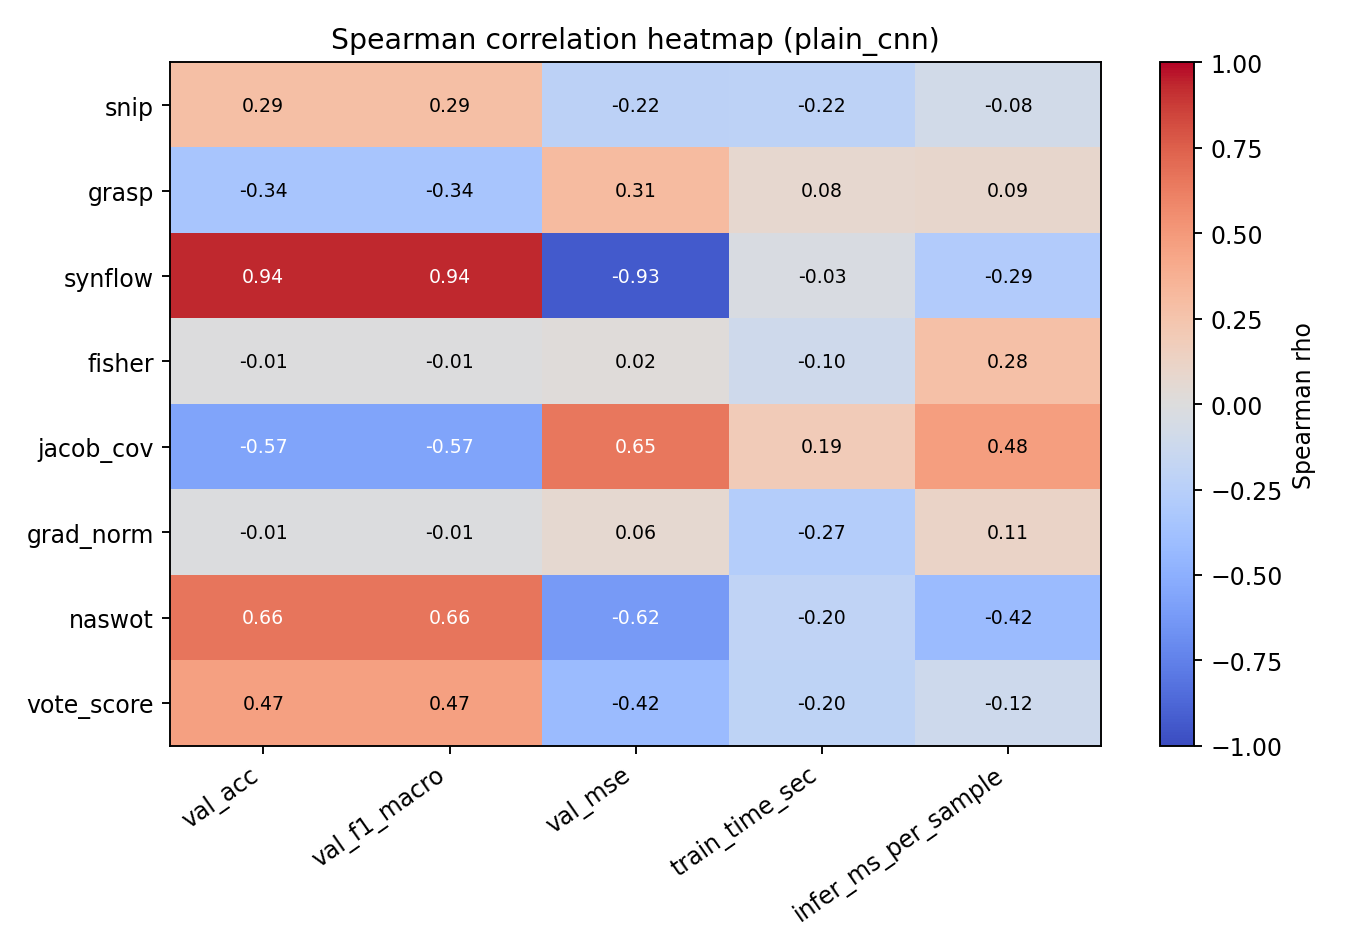
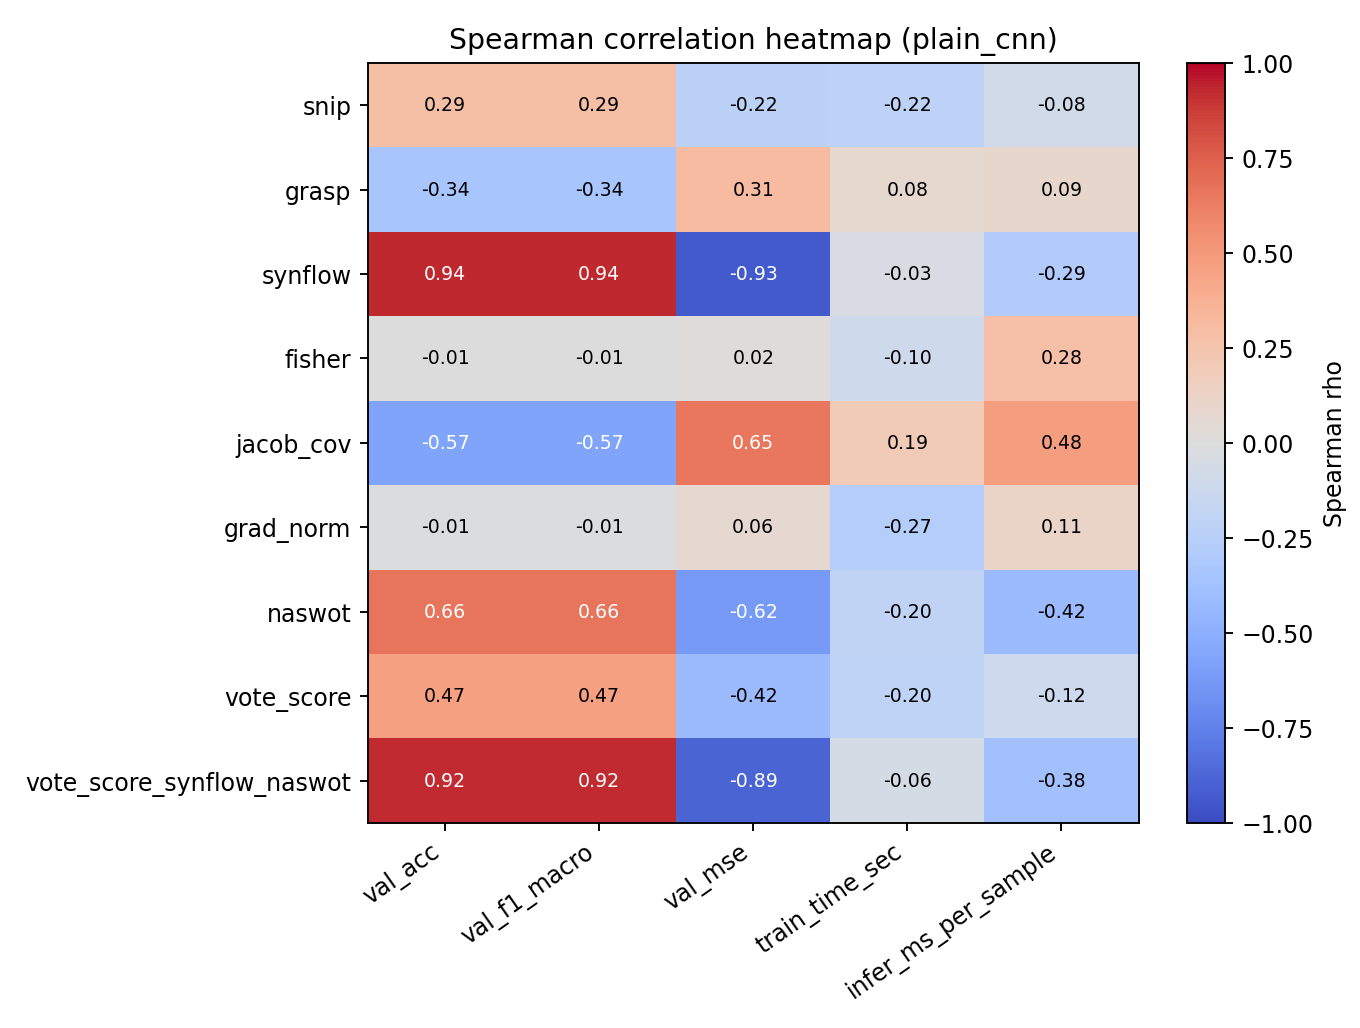
visualisierungen und logik von naswotXsynflow implementiert

diff --git a/main.py b/main.py
@@ -14,6 +14,7 @@ from torch.utils.data import DataLoader
 from src.analysis import (
     add_metric_vote_scores,
     build_metric_mapping_table,
+    plot_metric_pair_correlation,
     plot_metric_correlation_heatmaps,
     plot_metric_correlations,
     plot_rank_agreement_bump_chart,
@@ -24,6 +25,9 @@ from src.train import train_short
 
 
 ZERO_COST_METRICS = ["snip", "grasp", "synflow", "fisher", "jacob_cov", "grad_norm", "naswot"]
+SMALL_VOTE_METRICS = ("synflow", "naswot")
+SMALL_VOTE_SCORE_COL = "vote_score_synflow_naswot"
+SMALL_VOTE_RANK_COL = "vote_rank_synflow_naswot"
 CORR_TARGETS = ["val_acc", "val_f1_macro", "val_mse", "train_time_sec", "infer_ms_per_sample"]
 DEFAULT_LOWER_IS_BETTER = ("jacob_cov", "grasp")
 PROJECT_DIR = Path(__file__).resolve().parent
@@ -260,7 +264,15 @@ def _postprocess_and_plot(
         vote_metrics=ZERO_COST_METRICS,
         lower_is_better=lower_is_better,
     )
-    metrics_for_corr = ZERO_COST_METRICS + ["vote_score"]
+    small_vote_df = add_metric_vote_scores(
+        results_df=results_df,
+        vote_metrics=SMALL_VOTE_METRICS,
+        lower_is_better=lower_is_better,
+    )
+    results_df[SMALL_VOTE_SCORE_COL] = small_vote_df["vote_score"]
+    results_df[SMALL_VOTE_RANK_COL] = small_vote_df["vote_rank"]
+
+    metrics_for_corr = ZERO_COST_METRICS + ["vote_score", SMALL_VOTE_SCORE_COL]
 
     results_path = out_dir / "results_mnist.csv"
     results_df.to_csv(results_path, index=False)
@@ -293,6 +305,13 @@ def _postprocess_and_plot(
             target=target,
             prefix="overall",
         )
+    _ = plot_metric_pair_correlation(
+        results_df=results_df,
+        out_dir=out_dir,
+        x_metric="synflow",
+        y_metric="naswot",
+        prefix="overall",
+    )
     _ = plot_metric_correlation_heatmaps(
         results_df=results_df,
         out_dir=out_dir,
@@ -362,6 +381,7 @@ def main() -> None:
         total_models = len(results_df)
         top_acc = results_df.sort_values("val_acc", ascending=False).iloc[0]
         top_vote = results_df.sort_values("vote_score", ascending=False).iloc[0]
+        top_small_vote = results_df.sort_values(SMALL_VOTE_SCORE_COL, ascending=False).iloc[0]
         print("\n=== Replot finished (no training run) ===", flush=True)
         print(f"Models in CSV: {total_models}", flush=True)
         print(f"Results: {results_path.resolve()}", flush=True)
@@ -370,6 +390,10 @@ def main() -> None:
             print(f"Family mapping: {family_mapping_path.resolve()}", flush=True)
         print(f"Top by val_acc: {top_acc['model']} ({top_acc['val_acc']:.4f})", flush=True)
         print(f"Top by vote_score: {top_vote['model']} ({top_vote['vote_score']:.2f})", flush=True)
+        print(
+            f"Top by {SMALL_VOTE_SCORE_COL}: {top_small_vote['model']} ({top_small_vote[SMALL_VOTE_SCORE_COL]:.2f})",
+            flush=True,
+        )
         print("Plots created: scatter correlations, correlation heatmaps, rank-agreement bump charts", flush=True)
         return
 
@@ -469,6 +493,7 @@ def main() -> None:
 
     top_acc = results_df.sort_values("val_acc", ascending=False).iloc[0]
     top_vote = results_df.sort_values("vote_score", ascending=False).iloc[0]
+    top_small_vote = results_df.sort_values(SMALL_VOTE_SCORE_COL, ascending=False).iloc[0]
 
     print("\n=== Untrained CNN MNIST Artifact finished ===", flush=True)
     print(f"Models: {total_models} (plain_cnn + residual_cnn)", flush=True)
@@ -478,6 +503,10 @@ def main() -> None:
         print(f"Family mapping: {family_mapping_path.resolve()}", flush=True)
     print(f"Top by val_acc: {top_acc['model']} ({top_acc['val_acc']:.4f})", flush=True)
     print(f"Top by vote_score: {top_vote['model']} ({top_vote['vote_score']:.2f})", flush=True)
+    print(
+        f"Top by {SMALL_VOTE_SCORE_COL}: {top_small_vote['model']} ({top_small_vote[SMALL_VOTE_SCORE_COL]:.2f})",
+        flush=True,
+    )
     print("Plots created: scatter correlations, correlation heatmaps, rank-agreement bump charts", flush=True)
 
 

diff --git a/src/analysis.py b/src/analysis.py
@@ -104,6 +104,55 @@ def plot_metric_correlations(
     return output_paths
 
 
+def plot_metric_pair_correlation(
+    results_df: pd.DataFrame,
+    out_dir: Path,
+    x_metric: str,
+    y_metric: str,
+    prefix: str,
+) -> Path:
+    out_dir.mkdir(parents=True, exist_ok=True)
+    has_family = "family" in results_df.columns
+    family_colors = {"plain_cnn": "#1f77b4", "residual_cnn": "#d62728"}
+
+    pair_df = results_df[[x_metric, y_metric]].dropna()
+    if len(pair_df) >= 2:
+        spearman_rho, spearman_p = spearmanr(pair_df[x_metric], pair_df[y_metric])
+        pearson_r = pair_df[x_metric].corr(pair_df[y_metric], method="pearson")
+    else:
+        spearman_rho, spearman_p, pearson_r = float("nan"), float("nan"), float("nan")
+
+    fig, ax = plt.subplots(figsize=(6, 4))
+    if has_family:
+        for fam_name, fam_df in results_df.groupby("family"):
+            ax.scatter(
+                fam_df[x_metric],
+                fam_df[y_metric],
+                alpha=0.8,
+                label=fam_name,
+                color=family_colors.get(str(fam_name), None),
+            )
+        ax.legend(frameon=False)
+    else:
+        ax.scatter(results_df[x_metric], results_df[y_metric], alpha=0.8)
+
+    ax.set_xlabel(x_metric)
+    ax.set_ylabel(y_metric)
+    if pd.notna(spearman_rho) and pd.notna(pearson_r):
+        ax.set_title(
+            f"{x_metric} vs {y_metric}\n"
+            f"Spearman rho={spearman_rho:.3f} (p={spearman_p:.2g}), Pearson r={pearson_r:.3f}"
+        )
+    else:
+        ax.set_title(f"{x_metric} vs {y_metric}")
+    fig.tight_layout()
+
+    path = out_dir / f"{prefix}_{x_metric}_vs_{y_metric}_correlation.png"
+    fig.savefig(path, dpi=150)
+    plt.close(fig)
+    return path
+
+
 def _group_frames(results_df: pd.DataFrame, group_column: str | None) -> List[tuple[str, pd.DataFrame]]:
     grouped: List[tuple[str, pd.DataFrame]] = [("overall", results_df)]
     if group_column is not None and group_column in results_df.columns:

diff --git a/README.md b/README.md
@@ -11,6 +11,7 @@ Projekt fuer den Vergleich von Zero-Cost-Metriken auf MNIST mit zwei Architektur
 - Training/Eval: `val_acc`, `val_f1_macro`, `val_mse`
 - Effizienz: `train_time_sec`, `infer_ms_per_sample`
 - Ensemble: `vote_score`
+- Mini-Voting (nur `synflow` + `naswot`): `vote_score_synflow_naswot`
 - Stages im Ergebnis: `stage_untrained_metrics=untrained`, `stage_trained_eval=trained`
 
 Zusatz: Korrelationen werden `overall` und optional pro `family` gespeichert.
@@ -87,3 +88,4 @@ Optional:
 - `outputs/metric_mapping_overall.csv`: Spearman/Kendall ueber alle Modelle
 - `outputs/metric_mapping_by_family.csv`: Spearman/Kendall pro Modellfamilie (bei `--include-family-split`)
 - `outputs/*.png`: Scatter-Plots, Korrelations-Heatmaps und Rank-Agreement-Bump-Charts
+- `outputs/overall_synflow_vs_naswot_correlation.png`: Direkter Korrelations-Plot zwischen SynFlow und NASWOT
